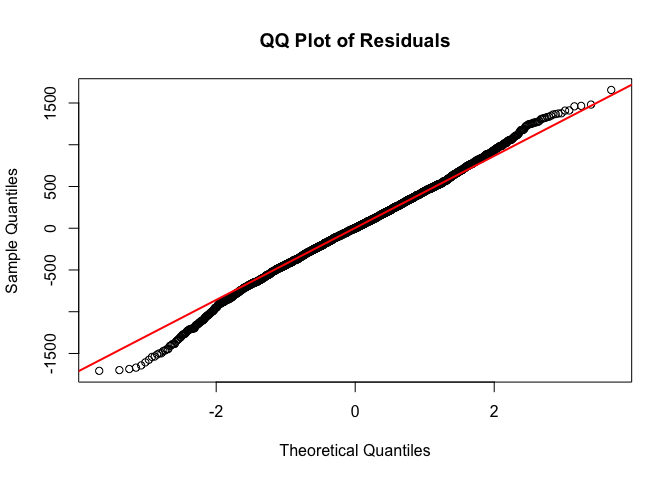
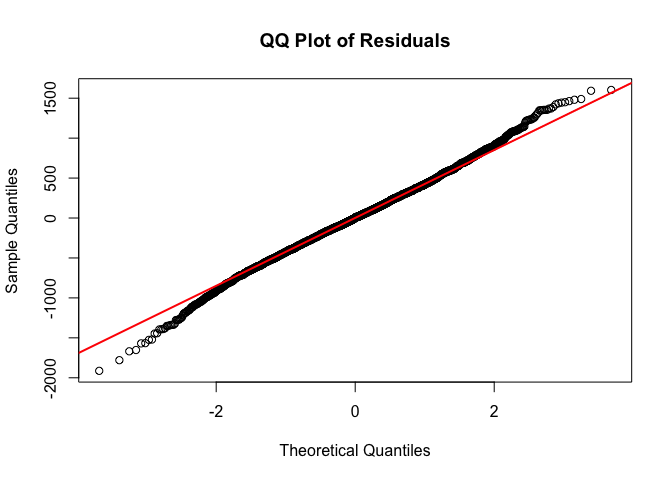
Problem 3: model comparison

diff --git a/p8105_hw6_yx2954.md b/p8105_hw6_yx2954.md
@@ -19,8 +19,20 @@ library(tidyverse)
     ## ℹ Use the conflicted package (<http://conflicted.r-lib.org/>) to force all conflicts to become errors
 
 ``` r
+library(modelr)
 library(p8105.datasets)
+library(mgcv)
 ```
+
+    ## Loading required package: nlme
+    ## 
+    ## Attaching package: 'nlme'
+    ## 
+    ## The following object is masked from 'package:dplyr':
+    ## 
+    ##     collapse
+    ## 
+    ## This is mgcv 1.9-1. For overview type 'help("mgcv-package")'.
 
 # Problem 1
 
@@ -57,6 +69,8 @@ boot_sample <- function(df) {
 We should also do a quick check to see if this is working.
 
 ``` r
+set.seed(456)
+
 boot_sample(weather_df) |> 
   ggplot(aes(x = tmin, y = tmax)) + 
   geom_point(alpha = .5) +
@@ -65,12 +79,7 @@ boot_sample(weather_df) |>
 
     ## `geom_smooth()` using formula = 'y ~ x'
 
-<figure>
-<img
-src="p8105_hw6_yx2954_files/figure-gfm/bootstrap_sample_check-1.png"
-alt="bootstrap_sample_check" />
-<figcaption aria-hidden="true">bootstrap_sample_check</figcaption>
-</figure>
+![](p8105_hw6_yx2954_files/figure-gfm/bootstrap_sample_check-1.png)<!-- -->
 
 That looks about right. Then we generate 5,000 bootstrap samples
 
@@ -123,11 +132,7 @@ estimate_plot = bootstrap_longer |>
 print(estimate_plot)
 ```
 
-<figure>
-<img src="p8105_hw6_yx2954_files/figure-gfm/estimate_plot-1.png"
-alt="estimate_plot" />
-<figcaption aria-hidden="true">estimate_plot</figcaption>
-</figure>
+![](p8105_hw6_yx2954_files/figure-gfm/estimate_plot-1.png)<!-- -->
 
 Get numeric values of sample estimates
 
@@ -176,19 +181,15 @@ homicide_df <- read_csv("https://raw.githubusercontent.com/washingtonpost/data-h
 ``` r
 homicide_df = homicide_df |>
   mutate(city_state = paste(city, state, sep = ", "),
-         status = if_else(disposition == "Closed by arrest", 1, 0),
-         victim_age = as.numeric(victim_age)
+         status = if_else(disposition == "Closed by arrest", 1, 0)
            ) |>  
   filter(
     !city_state %in% c("Dallas, TX", "Phoenix, AZ", "Kansas City, MO", "Tulsa, AL"),
-    victim_race %in% c("White", "Black")) |>
+    victim_race %in% c("White", "Black"),
+    victim_age != "Unknown") |>
+  mutate(victim_age = as.numeric(victim_age)) |>
   select(-city, - state, -disposition)
 ```
-
-    ## Warning: There was 1 warning in `mutate()`.
-    ## ℹ In argument: `victim_age = as.numeric(victim_age)`.
-    ## Caused by warning:
-    ## ! NAs introduced by coercion
 
 Logistic regression in Baltimore, MD
 
@@ -203,21 +204,15 @@ baltimore_glm = glm(status ~ victim_age + victim_sex + victim_race,
 
 baltimore_or = baltimore_glm |>
   filter(term == "victim_sexMale") |>
-  select(term, estimate, conf.low, conf.high)
-
-print(baltimore_or)
+  select(term, estimate, conf.low, conf.high) |>
+  knitr::kable(digits = 4)
 ```
 
-    ## # A tibble: 1 × 4
-    ##   term           estimate conf.low conf.high
-    ##   <chr>             <dbl>    <dbl>     <dbl>
-    ## 1 victim_sexMale    0.426    0.324     0.558
-
 The Odd ratio for solving homicides comparing male victims to female
-victims is 0.4255117, with a 95% CI of (0.3241908, 0.5575508). It
-suggests that the result is significant as the higher boundary is
-smaller than 1, and the probability of solving homicides of male victims
-is 42.6% as likely as that of female victims.
+victims is 0.4255, with a 95% CI of (0.3242, 0.5576) and p value =
+6.255119e-10. It suggests that the result is significant as the higher
+boundary is smaller than 1, and the probability of solving homicides of
+male victims is 42.6% as likely as that of female victims.
 
 Run glm for each of the cities
 
@@ -232,7 +227,7 @@ all_city_results = homicide_df |>
   unnest(tidy_model) |>
   filter(term == "victim_sexMale") %>%
   select(city_state, estimate, conf.low, conf.high) |>
-  arrange(estimate)
+  arrange(estimate) 
 ```
 
     ## Warning: There were 44 warnings in `mutate()`.
@@ -243,6 +238,61 @@ all_city_results = homicide_df |>
     ## Caused by warning:
     ## ! glm.fit: fitted probabilities numerically 0 or 1 occurred
     ## ℹ Run `dplyr::last_dplyr_warnings()` to see the 43 remaining warnings.
+
+``` r
+all_city_results |>
+  knitr::kable(digits = 4)
+```
+
+| city_state         | estimate | conf.low | conf.high |
+|:-------------------|---------:|---------:|----------:|
+| New York, NY       |   0.2624 |   0.1328 |    0.4850 |
+| Baton Rouge, LA    |   0.3814 |   0.2043 |    0.6836 |
+| Omaha, NE          |   0.3825 |   0.1988 |    0.7109 |
+| Cincinnati, OH     |   0.3998 |   0.2314 |    0.6670 |
+| Chicago, IL        |   0.4101 |   0.3361 |    0.5009 |
+| Long Beach, CA     |   0.4102 |   0.1427 |    1.0242 |
+| San Diego, CA      |   0.4130 |   0.1914 |    0.8302 |
+| Baltimore, MD      |   0.4255 |   0.3242 |    0.5576 |
+| Pittsburgh, PA     |   0.4308 |   0.2626 |    0.6956 |
+| Denver, CO         |   0.4791 |   0.2327 |    0.9625 |
+| Louisville, KY     |   0.4906 |   0.3015 |    0.7836 |
+| Philadelphia, PA   |   0.4963 |   0.3760 |    0.6499 |
+| San Bernardino, CA |   0.5003 |   0.1655 |    1.4624 |
+| Miami, FL          |   0.5152 |   0.3040 |    0.8734 |
+| Buffalo, NY        |   0.5206 |   0.2884 |    0.9358 |
+| Columbus, OH       |   0.5325 |   0.3770 |    0.7479 |
+| Oakland, CA        |   0.5631 |   0.3637 |    0.8671 |
+| Detroit, MI        |   0.5823 |   0.4619 |    0.7335 |
+| New Orleans, LA    |   0.5849 |   0.4219 |    0.8122 |
+| San Francisco, CA  |   0.6075 |   0.3117 |    1.1551 |
+| Los Angeles, CA    |   0.6619 |   0.4565 |    0.9541 |
+| Sacramento, CA     |   0.6688 |   0.3263 |    1.3144 |
+| Fort Worth, TX     |   0.6690 |   0.3935 |    1.1212 |
+| Boston, MA         |   0.6740 |   0.3534 |    1.2768 |
+| Washington, DC     |   0.6902 |   0.4654 |    1.0123 |
+| St. Louis, MO      |   0.7032 |   0.5299 |    0.9319 |
+| San Antonio, TX    |   0.7046 |   0.3928 |    1.2383 |
+| Houston, TX        |   0.7110 |   0.5570 |    0.9057 |
+| Jacksonville, FL   |   0.7198 |   0.5359 |    0.9651 |
+| Memphis, TN        |   0.7232 |   0.5261 |    0.9836 |
+| Milwaukee, wI      |   0.7271 |   0.4951 |    1.0542 |
+| Tampa, FL          |   0.8077 |   0.3395 |    1.8599 |
+| Durham, NC         |   0.8124 |   0.3824 |    1.6580 |
+| Las Vegas, NV      |   0.8373 |   0.6059 |    1.1511 |
+| Savannah, GA       |   0.8670 |   0.4186 |    1.7802 |
+| Birmingham, AL     |   0.8700 |   0.5714 |    1.3138 |
+| Charlotte, NC      |   0.8839 |   0.5507 |    1.3906 |
+| Indianapolis, IN   |   0.9187 |   0.6785 |    1.2413 |
+| Minneapolis, MN    |   0.9470 |   0.4759 |    1.8810 |
+| Oklahoma City, OK  |   0.9741 |   0.6229 |    1.5200 |
+| Tulsa, OK          |   0.9758 |   0.6091 |    1.5439 |
+| Atlanta, GA        |   1.0001 |   0.6803 |    1.4583 |
+| Richmond, VA       |   1.0061 |   0.4835 |    1.9936 |
+| Nashville, TN      |   1.0342 |   0.6807 |    1.5560 |
+| Fresno, CA         |   1.3352 |   0.5673 |    3.0475 |
+| Stockton, CA       |   1.3517 |   0.6256 |    2.9941 |
+| Albuquerque, NM    |   1.7675 |   0.8247 |    3.7619 |
 
 Create a plot that shows the estimated ORs and CIs for each city.
 
@@ -262,11 +312,21 @@ all_city_plot = all_city_results |>
 print(all_city_plot)
 ```
 
-<figure>
-<img src="p8105_hw6_yx2954_files/figure-gfm/all_city_plot-1.png"
-alt="all_city_plot" />
-<figcaption aria-hidden="true">all_city_plot</figcaption>
-</figure>
+![](p8105_hw6_yx2954_files/figure-gfm/all_city_plot-1.png)<!-- -->
+
+Comments: This plot displays the adjusted odds ratios (OR) for solving
+homicides for male victims compared to female victims across various
+cities, while controlling for other factors. An OR greater than 1
+indicates a higher likelihood of resolution for male victims, while an
+OR less than 1 suggests the opposite.
+
+Among all cities included, Albuquerque, NM has the highest adjusted OR,
+indicating highest proportion of solving male homicides. But its 95% CI
+is very broad, suggesting the uncertainty of estimate caused by limited
+sample size. New York, NY has the lowest adjusted OR, suggesting the
+highest proportion of solving female homicides. 41 cities have an
+adjusted OR less than 1, while 6 cities have an adjusted OR larger than
+1.
 
 # Problem 3
 
@@ -346,11 +406,12 @@ summary(bw_df)
 Then build my model:
 
 Model Hypothesis: Based on empirical knowledge, birth weight may be
-linearly related to pre-pregnant weight and gestational age in weeks.
-Here is my model:
+related to pre-pregnant weight and gestational age in weeks. But as we
+don’t know if this relationship is linear, I apply gam model instead of
+lm. The interaction between them are not considered. Here is my model:
 
 ``` r
-fit_hypothetical = lm(bwt ~ ppwt +  gaweeks,  data = bw_df)
+fit_hypothetical = gam(bwt ~ s(ppwt) + s(gaweeks), data = bw_df)
 ```
 
 ``` r
@@ -371,11 +432,7 @@ bw_df |>
   theme_minimal()
 ```
 
-<figure>
-<img src="p8105_hw6_yx2954_files/figure-gfm/residuals_vs_gaweeks-1.png"
-alt="residuals_vs_gaweeks" />
-<figcaption aria-hidden="true">residuals_vs_gaweeks</figcaption>
-</figure>
+![](p8105_hw6_yx2954_files/figure-gfm/residuals_vs_gaweeks-1.png)<!-- -->
 
 ``` r
 bw_df |> 
@@ -403,6 +460,66 @@ qqnorm(residuals_hypothetical, main = "QQ Plot of Residuals")
 qqline(residuals_hypothetical, col = "red", lwd = 2)
 ```
 
-![qqplot_residual](p8105_hw6_yx2954_files/figure-gfm/qqplot_residual-1.png)
-The qq plot shows that the residuals are approximately approach normal
-distribution.
+![](p8105_hw6_yx2954_files/figure-gfm/qqplot_residual-1.png)<!-- --> The
+qq plot shows that the residuals are approximately approach normal
+distribution. At the extreme ends, there are noticeable deviations from
+the red line. This suggests that the model might not fully capture the
+data’s behavior for observations with extreme values.
+
+## Then comparing my models to the other two models:
+
+First generate train set and test set:
+
+``` r
+set.seed(123)
+
+cv_df = crossv_mc(bw_df, 100) |>
+  mutate(
+    train = map(train, as_tibble),
+    test = map(test, as_tibble)
+  )
+```
+
+Then do the same using the other two models:
+
+``` r
+cv_results = cv_df |>
+  mutate(
+    my_model = map(train, ~ gam(bwt ~ s(ppwt) + s(gaweeks), data = .x)),
+    model_2 = map(train, ~ lm(bwt ~ blength + gaweeks, data = .x)),
+    model_3 = map(train, ~ lm(bwt ~ bhead * blength * babysex, data = .x))
+  ) |>
+  mutate(
+    rmse_model_2 = map2_dbl(model_2, test, ~ rmse(model = .x, data = .y)),
+    rmse_model_3 = map2_dbl(model_3, test, ~ rmse(model = .x, data = .y)),
+    rmse_my_model = map2_dbl(my_model, test, ~ rmse(model = .x, data = .y))
+  )
+```
+
+``` r
+cv_results |>
+  select(starts_with("rmse")) |>
+  pivot_longer(
+    cols = everything(),
+    names_to = "model",
+    values_to = "rmse",
+    names_prefix = "rmse_"
+  ) |>
+  mutate(model = fct_inorder(model)) %>%
+  ggplot(aes(x = model, y = rmse)) +
+  geom_violin() +
+  labs(
+    title = "Cross-Validated RMSE Comparison",
+    x = "Model",
+    y = "RMSE"
+  ) +
+  theme_minimal()
+```
+
+![](p8105_hw6_yx2954_files/figure-gfm/model_comparison-1.png)<!-- -->
+
+From the figure above, my model is not as good as the other two models
+in terms of the value of RMSE. This might because that the two factors I
+chose are not the key factors that capture the major variance of the
+data. The interaction model is the best in terms of RMSE, but should
+also consider the model complexity by adding an additional factor.
